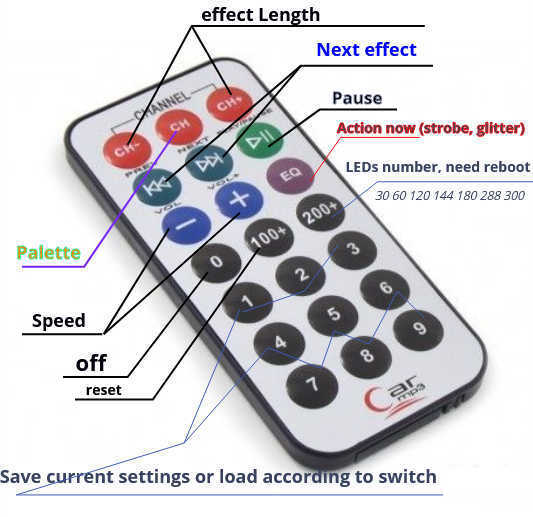
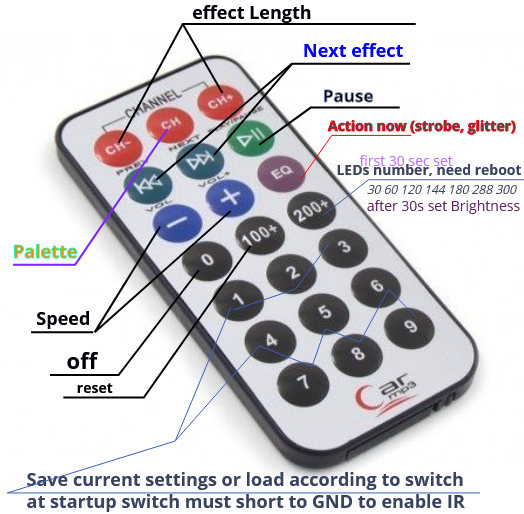
.

Changed region(s): [[0.0, 0.0, 1.0, 0.9961], [0.8244, 0.7471, 0.855, 0.7782]]

diff --git a/README.md b/README.md
@@ -1,15 +1,41 @@
 # LEDController2812IR
 ![](0.jpg)
 
-Simple controller for ws2812b ws2811 stripes with IR control, includes a lot of effects.
+~~Simple~~ Flexible controller for ws2812b ws2811 stripes with support of IR control, keypad shield LCD, 3 or 5-buttons, settings over USB.
+ Includes a lot of effects.
 
 ### Сoncept
+There are save/load slots, many effects, each rich of settings.
 
+You can build it with hardware options:
+```C
+//#define keypad1602 //free D0..3, D11..13, A1..
+#define IRkeypad	//3*7, ask me about support other types
+//#define key5x
+//#define key3x		//central btn switch mode (settings). Side btns are +-, i.e. effN, speed, length, gamma
+//#define SerialControl //USB protocol for external GUI //! TODO software for PC, android
+//#define SerialSelect //enter effect № in terminal
+//#define LCD2004_i2c						//A4 A5
+```
+
+*With IRkeypad:
 At power up Switch between "settings"  (IR) and "working" (faster) modes.
-
 Choose effect, each has many settings to customize. It saves last.
+It save/load presets by press numbers buttons in  "settings mode" / "working mode".
 
-In save/load presets by press numbers buttons in  "settings mode" / "working mode".
+*With keypad1602 or key3x: you have to press select button to select option (effect, speed, length, chennels), than change it with +- keys
+*With key5x: all main options has button.
+*With USBcontrol: create presets in PC software, fast load it with buttons
+
+TODO
+Presets are the first 10 effect slots:
+* slot 0 - auto-saved last used effect and settings
+* slots 1..9 you can manually save/load to EEPROM
+* slots 10...254  constant links to effect and settings set for it
+* slot 252 endless different effect switch (so if your customer ask about over 9000 effects - you can use this :)
+* slot 253 predefined show sequence
+* slot 254 random demo
+* slot 255 random demo fast
 
 ### Hardware and reference design:
 
@@ -30,9 +56,11 @@ power on 5v (VCC) can be as low as 3.3v LED also working.
 
 atmega168 for 60-150 LEDs
 
-atmega328 for 150-300 LEDs
+atmega328 for 90-300 LEDs
 
 atmega2560 for 1000-2000 LEDs
+
+IRkeypad eat a lot of memory
 
 ### basic instructions
 0. Assemble the device
@@ -48,10 +76,5 @@ atmega2560 for 1000-2000 LEDs
 * Connect power AFTER all assembled with good GND wire connection
 * Don't see on bright Blue LEDs (or white because it is from Blue) while testing if you need your eyes for a long life. Use diffuser, dim power, itc.
 ### Hints
-* to mantain max quality (bit depth) regulate brightness not by program but via DC-DC down modules like XL4005 (without current limit)
-
-
-
-
-
+* to maintain max quality (bit depth) regulate brightness not by program but via DC-DC down modules like XL4005 (without current limit)
 
